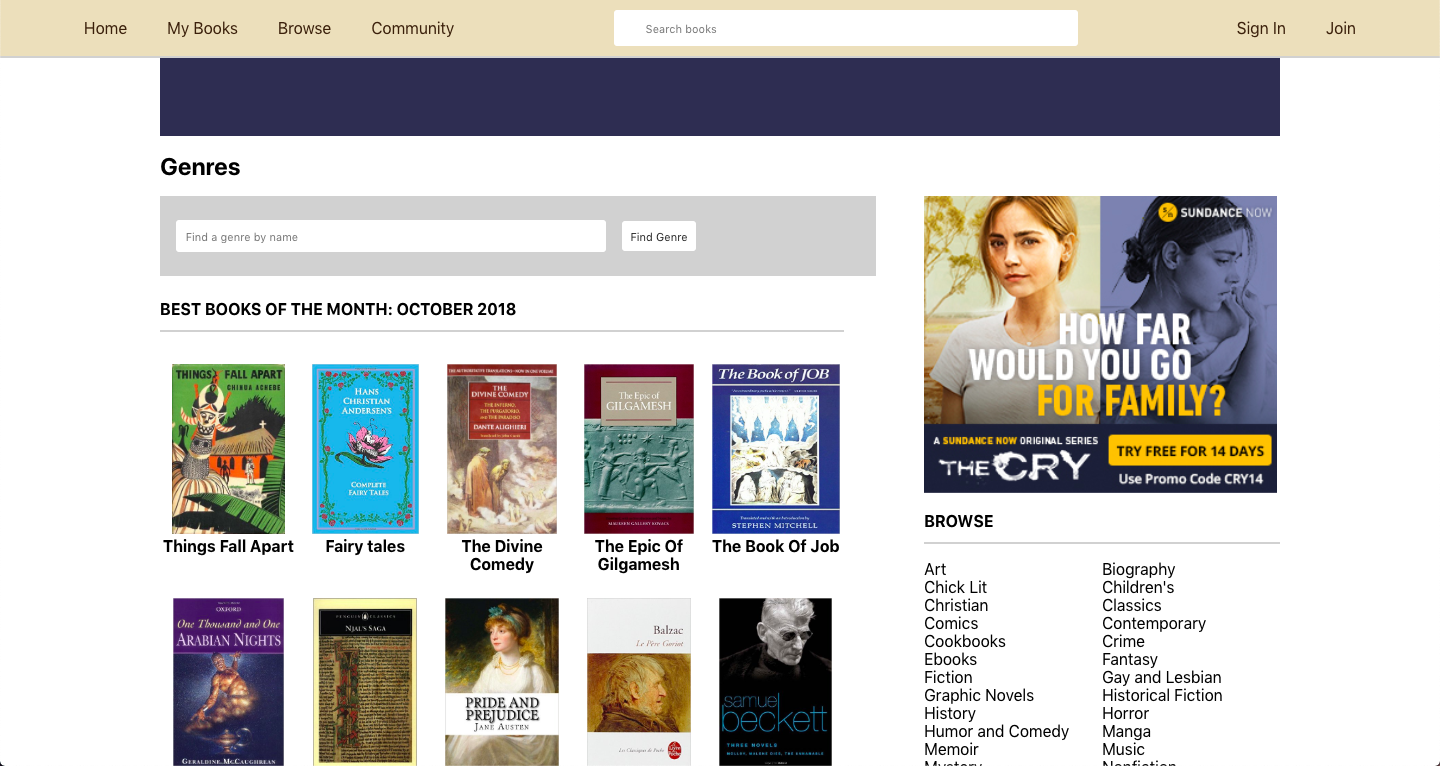
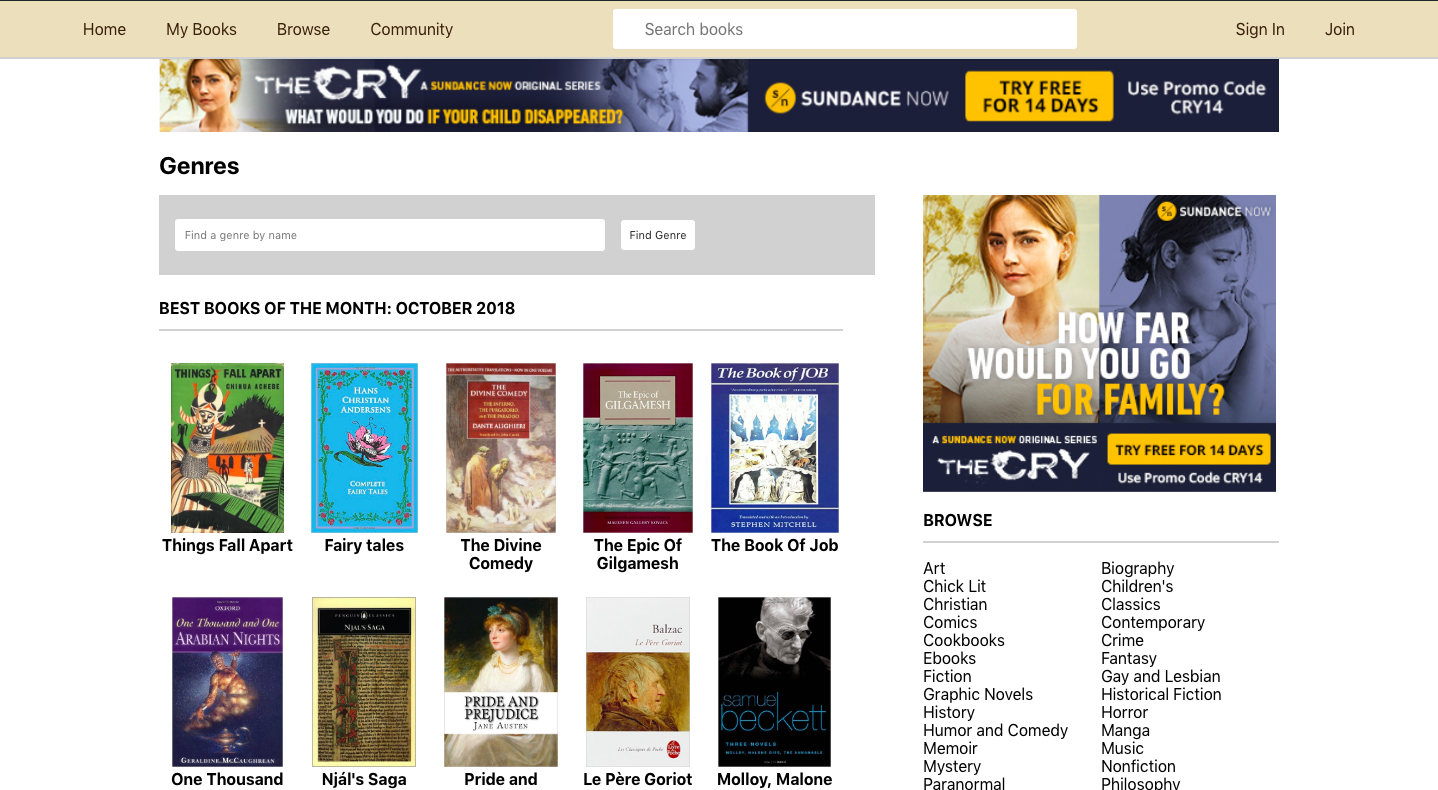
updating screenshot

diff --git a/src/App.css b/src/App.css
@@ -79,7 +79,7 @@ input:focus {
   text-decoration: none;
   color: #382110;
   padding: 20px;
-  /* border-right: 1px solid #382110; */
+  transition: all 0.3s;
 }
 
 .nav__navContent a:hover {
@@ -90,6 +90,7 @@ input:focus {
   padding: 0.7rem 2rem;
   border-radius: 3px;
   width: 400px;
+  font-size: 16px;
 }
 
 .main {
@@ -97,11 +98,8 @@ input:focus {
   padding-top: 3.5rem;
 }
 
-.ad {
-  height: 5rem;
+.ad img {
   width: 100%;
-  background-color: rgb(45, 48, 80);
-  margin: 0 auto;
 }
 
 .page-title {

diff --git a/src/App.js b/src/App.js
@@ -31,7 +31,9 @@ class App extends Component {
       <div className="container">
         <Header />
         <div className="main">
-          <div className="ad"></div>
+          <div className="ad">
+            <img src="top-ad.png" />
+          </div>
           <h2 className="page-title">Genres</h2>
 
           <div className="books__section">
